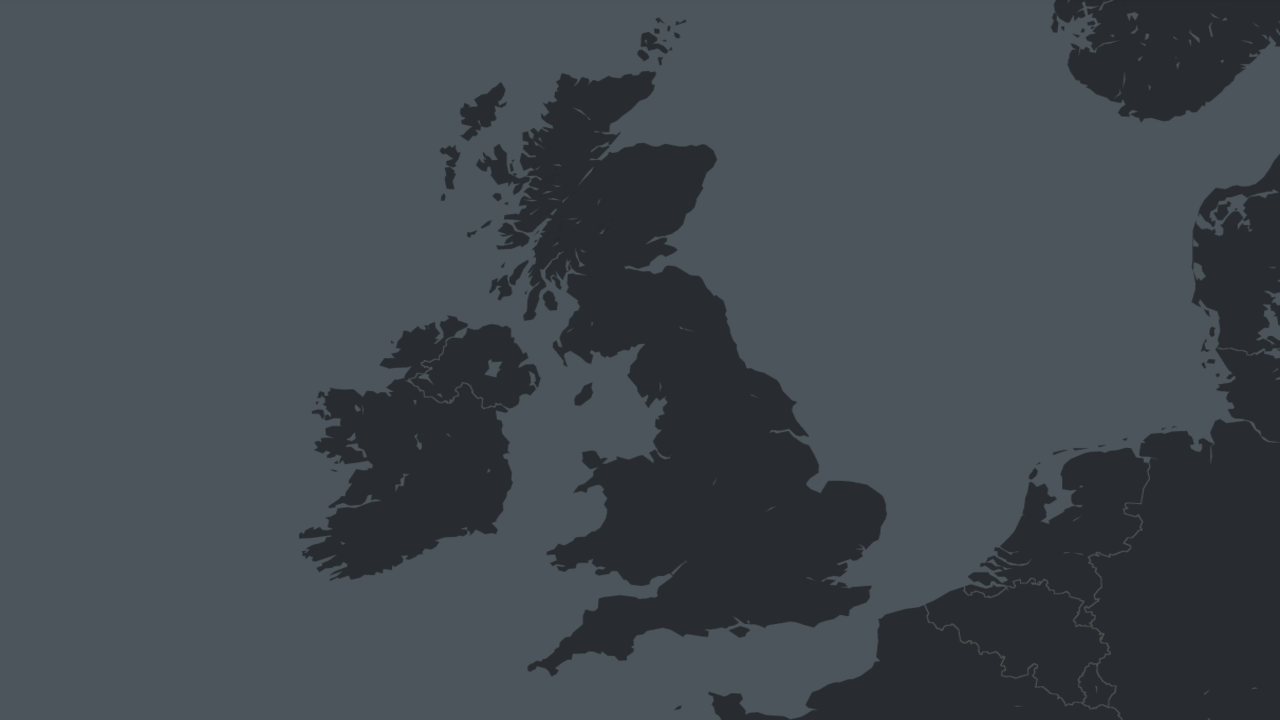
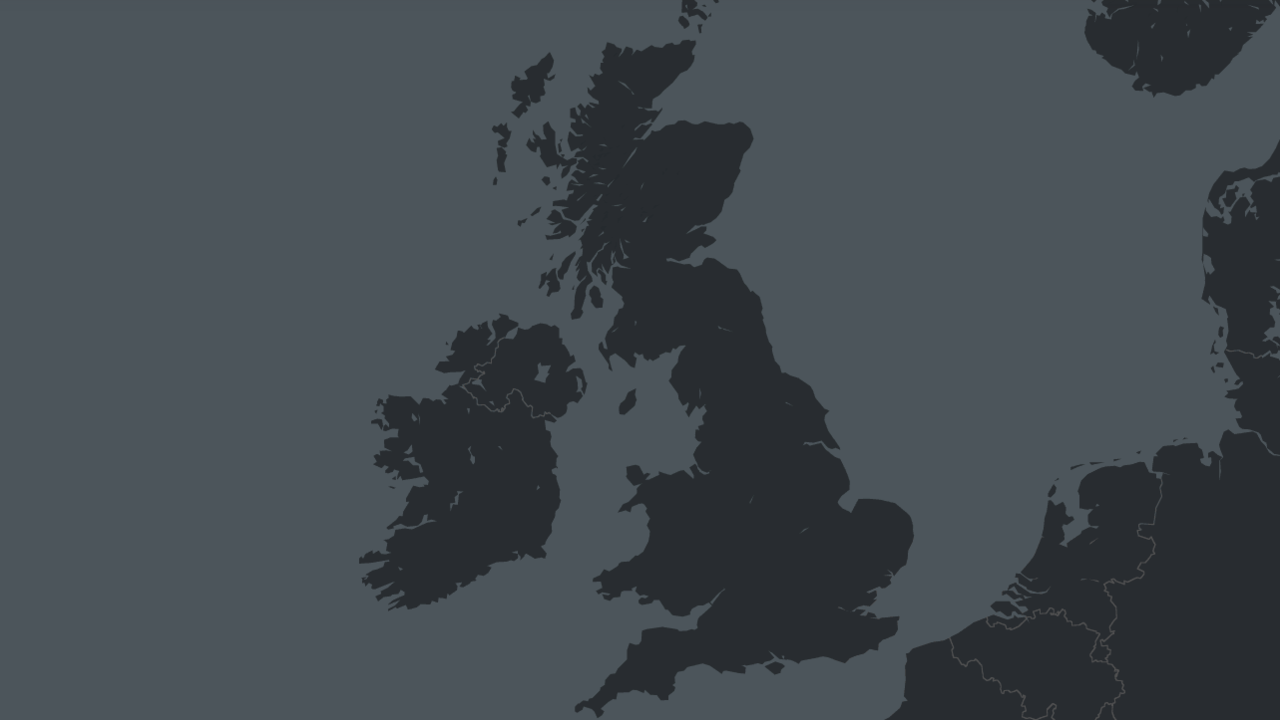
Changed UK and Poland images to fit 1280x720 with no resize for 1:1 real world match Added more facts

diff --git a/source/Game.cpp b/source/Game.cpp
@@ -84,16 +84,53 @@ void Game::render()
     m_window.display();
 }
 
+void Game::checkForEntitiesCollisions() {
+    std::vector<FlyingEntity*> flyingEntities;
+    for(Airplane &airplane: m_airplanes) {
+        FlyingEntity *flyingEntity = dynamic_cast<FlyingEntity*>(&airplane);
+        flyingEntities.push_back(flyingEntity);
+    }
+
+    for(FlyingEntity *A_flyingEntity: flyingEntities) {
+        const std::string A_callsign = A_flyingEntity->getCallsign();
+        const sf::Vector2f A_position = A_flyingEntity->getEntityPosition();
+        const int A_altitude = A_flyingEntity->getAltitude();
+
+        for(FlyingEntity *B_flyingEntity: flyingEntities) {
+            const std::string B_callsign = B_flyingEntity->getCallsign();
+            const sf::Vector2f B_position = B_flyingEntity->getEntityPosition();
+            const int B_altitude = B_flyingEntity->getAltitude();
+
+            if(A_callsign != B_callsign) {
+                int distance = Math::DistanceBetweenTwoPoints(A_position, B_position);
+
+                if(distance <= 20) {
+                    if(A_altitude == B_altitude) {
+                        A_flyingEntity->setDanger();
+                        B_flyingEntity->setDanger();
+                    }
+                }
+            }
+
+        }
+    }
+
+}
+
 void Game::handleEvent()
 {
     sf::Vector2i mouse_position = sf::Mouse::getPosition(m_window);
     sf::Vector2f float_mouse_position{(float) mouse_position.x, (float) mouse_position.y};
     sf::Event game_event{};
 
+    checkForEntitiesCollisions();
+
     while(m_window.pollEvent(game_event))
     {
         for(Airplane &airplane: m_airplanes) {
             airplane.handleEvent(game_event, float_mouse_position);
+
+
         }
         for(Airport &airport: m_airports) {
             airport.handleEvent(game_event, float_mouse_position);

diff --git a/header/ResourcesManager.h b/header/ResourcesManager.h
@@ -35,7 +35,11 @@ private:
             "The cabin is dimmed upon landing for emergency measures.",
             "The tanks of oxygen for passenger masks are only supposed to last 15 minutes.",
             "The tiny hole in the passenger windows helps regulate cabin pressure.",
-            "Travelers lose out on over a third of their taste buds during flight."
+            "Travelers lose out on over a third of their taste buds during flight.",
+            "The first female pilot was a woman named Raymonde de Laroche.",
+            "A Boeing 747 is made up of six million parts",
+            "More than 80% of the population is afraid of flying",
+            "Each engine on a Boeing 747 weighs almost 9,500 pounds",
     } {}
 
     void loadRegion(const std::string &region);

diff --git a/source/Math.cpp b/source/Math.cpp
@@ -6,7 +6,16 @@
 
 #include "../header/Math.h"
 
-int  Math::DirectionToPoint(const sf::Vector2f origin, const sf::Vector2f point)
+int Math::DistanceBetweenTwoPoints(const sf::Vector2f A, const sf::Vector2f B) {
+    float xSquare = (B.x - A.x) * (B.x - A.x);
+    float ySquare = (B.y - A.y) * (B.y - A.y);
+
+    float distance = std::sqrt(xSquare + ySquare);
+
+    return (int) distance;
+}
+
+int Math::DirectionToPoint(const sf::Vector2f origin, const sf::Vector2f point)
 {
     const auto dir_radians = atan2(origin.y - point.y, origin.x - point.x);
     int direction = (int) degrees((float)dir_radians) - 90;

diff --git a/header/FlyingEntity.h b/header/FlyingEntity.h
@@ -18,6 +18,13 @@ public:
     virtual void update();
     virtual void render(sf::RenderWindow *game_window);
     virtual void handleEvent(sf::Event game_event, sf::Vector2f mouse_position);
+
+    sf::Vector2f getEntityPosition() const { return m_entity.getPosition(); }
+    int getAltitude() const { return m_altitude; }
+
+    void setDanger() { m_entity.setFillColor(sf::Color::Red); };
+
+    std::string getCallsign() const { return m_callsign; };
 protected:
     int m_heading{};
     int m_speed{};

diff --git a/header/Math.h b/header/Math.h
@@ -16,6 +16,7 @@ public:
     static int DirectionToPoint(sf::Vector2f origin, sf::Vector2f point);
     static sf::Vector2f TranslatePositionToPoint(float speed, float direction);
     static sf::Vector2f MercatorProjection(float crtLatitude, float crtLongitude, const std::vector<float> &imgBounds);
+    static int DistanceBetweenTwoPoints(const sf::Vector2f A, const sf::Vector2f B);
 
 private:
     constexpr static const float PI = 3.14159265;

diff --git a/header/Game.h b/header/Game.h
@@ -16,6 +16,7 @@
 #include "Airport.h"
 #include "Weather.h"
 #include "ResourcesManager.h"
+#include <typeinfo>
 
 class Game : public Window {
 public:
@@ -30,6 +31,7 @@ private:
 
     void addNewEntities();
     void initAirports();
+    void checkForEntitiesCollisions();
 
     std::vector<Airplane> m_airplanes{};
     std::vector<Airport> m_airports{};

diff --git a/header/Airport.h b/header/Airport.h
@@ -18,6 +18,8 @@ public:
     void render(sf::RenderWindow *window);
     void handleEvent(sf::Event event, sf::Vector2f mousePosition);
 
+    std::string getIcao() const { return m_labelICAO.getString(); }
+
 private:
     bool m_isCoverageSelected{};
     //std::pair<int, int> m_weather{}; // (direction, wind)

diff --git a/header/Airplane.h b/header/Airplane.h
@@ -14,6 +14,7 @@ public:
     ~Airplane() = default;
 
     void update() override;
+
 private:
     void updateFlightData();
 
